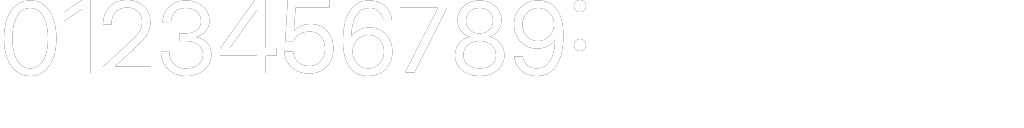
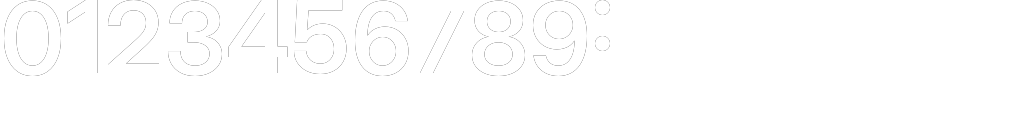
Uhr: Uhrzeit halbfett (Inter 600)
Claude-Session: https://claude.ai/code/session_01A2RcRpWK5XH42euK3XA48k

diff --git a/garmin/tools/make_font.py b/garmin/tools/make_font.py
@@ -7,7 +7,7 @@ wght=N setzt bei variablen Schriften die Stärke (z. B. 700), track=N ändert de
 (negativ = enger, wie letter-spacing).
 Die Schriften des Zifferblatts sind Inter (SIL Open Font License, fonts.google.com/specimen/Inter), angelehnt an Apples
 SF Pro; die variable .ttf herunterladen (Inter[opsz,wght].ttf). Fett (700) lief auf dem AMOLED zusammen:
-  python3 garmin/tools/make_font.py Inter.ttf 100 time digits wght=400 track=-2
+  python3 garmin/tools/make_font.py Inter.ttf 100 time digits wght=600 track=-2
   python3 garmin/tools/make_font.py Inter.ttf 30 val wght=500
   python3 garmin/tools/make_font.py Inter.ttf 21 cap wght=600
   python3 garmin/tools/make_font.py Inter.ttf 17 tag wght=600 track=1

diff --git a/garmin/README.md b/garmin/README.md
@@ -5,7 +5,7 @@ Zifferblatt für runde Garmin-Uhren (Connect IQ, Monkey C), Entwurf „Ultra“ 
 Fest von oben nach unten:
 
 - **Kopf**: Datum wie bei Apple („SO, 25. OKT.“), darunter das Urteil des Coaches für heute als Wort in einer Kapsel seiner Farbe (Feld `go` in `save_coach`): HART grün, LOCKER orange, FREI rot, COACH blau = Coach hat geschrieben, aber kein Urteil, ohne Aussage keine Kapsel. Eine eigene Ampel hat die Uhr nicht.
-- **Uhrzeit**, groß und schlank, ohne führende Null.
+- **Uhrzeit**, groß und halbfett, ohne führende Null.
 - **Skalen am Rand** wie beim Ultra (je 25 Striche): links die Kalorien von heute gegen das Tagesziel (`kcal`, live aus Yazio), von unten in Cyan gefüllt, über dem Ziel voll, ohne Ziel leer; rechts der Akku (grau, ab 20 % orange, ab 10 % rot, beim Laden grün).
 - **Offene Wochenminuten** je Sportart bis zum Zeitziel des Coaches (Einträge der Kategorie „Target“ im Intervals-Kalender) als drei runde Anzeigen: in der Mitte die Minuten in Sportfarbe, außen ein Ring mit Lücke unten, der sich zum Ziel füllt. Ohne Beschriftung: von links Lauf, Rad, Schwimmen. Ziel erreicht: Haken, ohne Ziel „--“.
 - **Ganz unten** die nächste Einheit („Heute Lauf 45'“, „Morgen Rad 60'“).
@@ -50,6 +50,6 @@ Gebaut wird für die Forerunner 265 (416 × 416 Pixel, AMOLED, rund; `manifest.x
 
 ## Hinweise
 
-- Schrift: Apples SF Pro darf nicht auf die Uhr. Alle Schriften sind Bitmap-Schriften aus **Inter** (SIL Open Font License; kommt SF Pro am nächsten; Inter Tight fett lief auf dem AMOLED zusammen) in `resources/fonts/`: `time` (Uhrzeit, nur Ziffern und gleich breit, normale Stärke wie die schlanke Zeit des Ultra), `val` (Werte, Medium), `cap` (Wochenstand, Zahlen in den runden Anzeigen, Halbfett), `tag` (Datum, Kapsel, Beschriftungen, Zeile unten; Halbfett und leicht gesperrt wie Apples Beschriftungen). Die Größen sind für 416 Pixel (Forerunner 265) erzeugt (Beschriftungen 17, `cap` 21, Werte 30, Uhrzeit 100 Pixel; kleiner ist auf der Uhr schlecht lesbar), die Deckkraft steht in allen vier Kanälen des PNG (nur im Alpha wurden die Kanten auf der Uhr gezackt), Bitmap-Schriften skalieren nicht mit. Neu erzeugen: siehe Kopf von `tools/make_font.py` (braucht Pillow und die variable Inter von Google Fonts).
+- Schrift: Apples SF Pro darf nicht auf die Uhr. Alle Schriften sind Bitmap-Schriften aus **Inter** (SIL Open Font License; kommt SF Pro am nächsten; Inter Tight fett lief auf dem AMOLED zusammen) in `resources/fonts/`: `time` (Uhrzeit, nur Ziffern und gleich breit, Halbfett), `val` (Werte, Medium), `cap` (Wochenstand, Zahlen in den runden Anzeigen, Halbfett), `tag` (Datum, Kapsel, Beschriftungen, Zeile unten; Halbfett und leicht gesperrt wie Apples Beschriftungen). Die Größen sind für 416 Pixel (Forerunner 265) erzeugt (Beschriftungen 17, `cap` 21, Werte 30, Uhrzeit 100 Pixel; kleiner ist auf der Uhr schlecht lesbar), die Deckkraft steht in allen vier Kanälen des PNG (nur im Alpha wurden die Kanten auf der Uhr gezackt), Bitmap-Schriften skalieren nicht mit. Neu erzeugen: siehe Kopf von `tools/make_font.py` (braucht Pillow und die variable Inter von Google Fonts).
 - Always-on-Modus: Es wird nur die Uhrzeit gezeichnet, grau in der eingebauten Schrift (AMOLED schonen).
 - Ist der letzte Abruf älter als eine Stunde, steht in der Kopfzeile ein `!` statt des Coach-Urteils.
